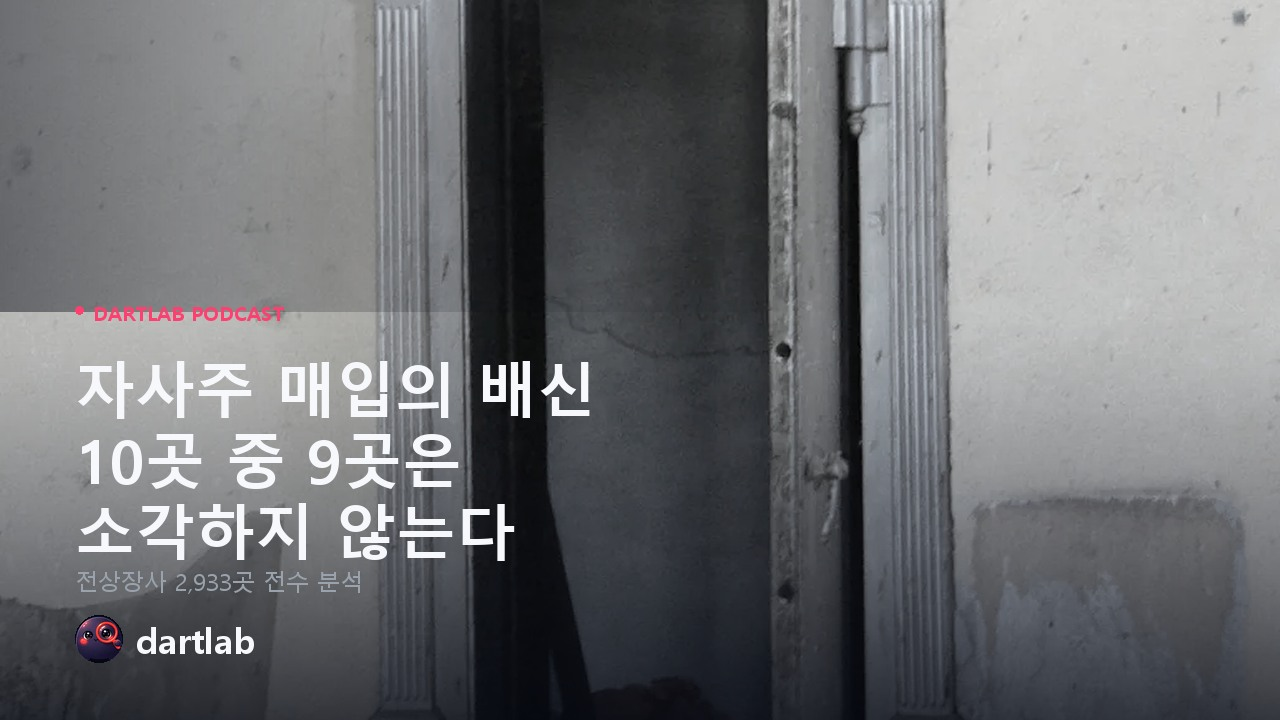
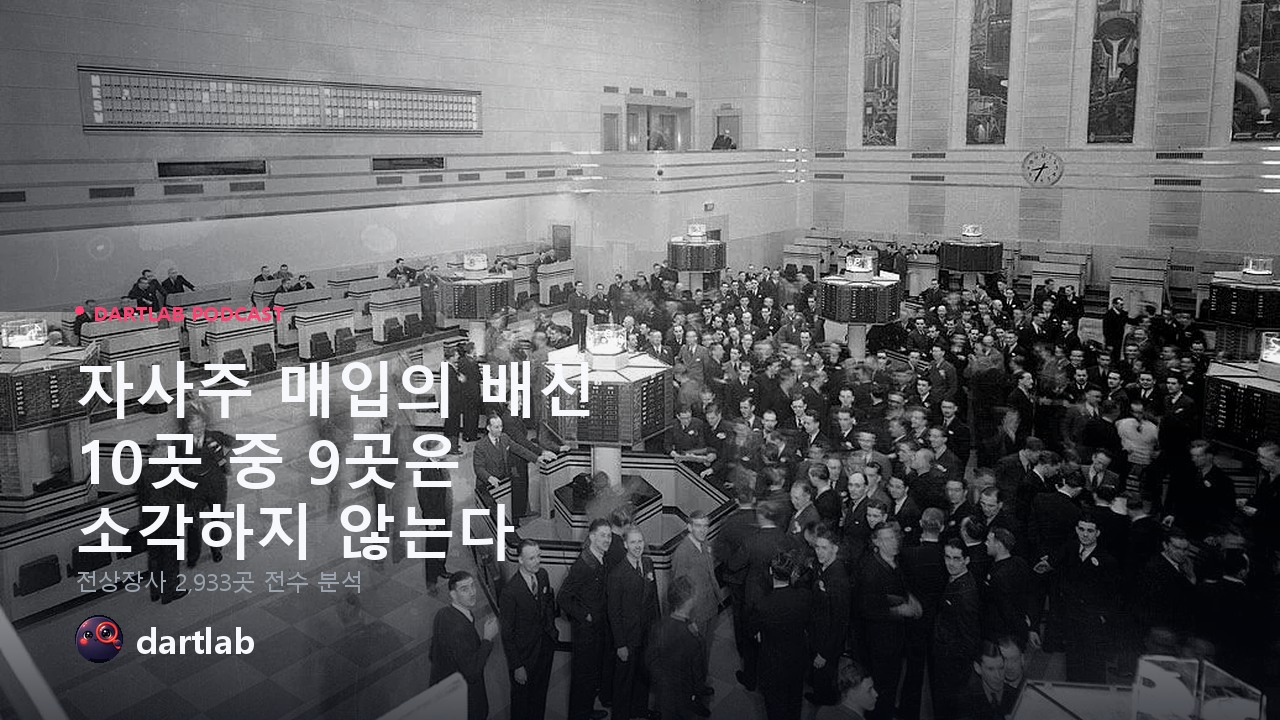
개선: 팟캐스트 P05 썸네일 배경 교체 (금고문 -> 증권거래소 객장, PD) + R2 재발행
New Toronto Stock Exchange trading floor (Alexandra Studios, Wikimedia Commons, Public Domain). 주식시장 테마, 1280x720 재렌더 후 R2 커버/썸네일 갱신.

diff --git a/blog/_podcasts/episodes/P05-economy-treasury-stock-cancellation/assets/CREDITS.md b/blog/_podcasts/episodes/P05-economy-treasury-stock-cancellation/assets/CREDITS.md
@@ -4,10 +4,10 @@
 
 | 파일 | 출처 | 라이선스 | 역할 |
 |---|---|---|---|
-| source-gray.webp | Bank of Gage (Oklahoma) vault door 1 / Ammodramus (Wikimedia Commons) | CC0 | 재사용 원본 배경 (은행 금고문, "회사 금고에 쌓인 자사주" 메타포) |
-| static-video.jpg | source-gray 파생 (렌더) | CC0 파생 | 1280x720 16:9 (팟빵·유튜브 썸네일·정적영상) |
-| cover.jpg | source-gray 파생 (렌더) | CC0 파생 | 3000x3000 정사각 RSS 커버 |
+| source-gray.webp | New Toronto Stock Exchange trading floor / Alexandra Studios (Wikimedia Commons) | Public Domain | 재사용 원본 배경 (증권거래소 객장, 주식시장 테마) |
+| static-video.jpg | source-gray 파생 (렌더) | PD 파생 | 1280x720 16:9 (팟빵·유튜브 썸네일·정적영상) |
+| cover.jpg | source-gray 파생 (렌더) | PD 파생 | 3000x3000 정사각 RSS 커버 |
 
-원본 URL: https://commons.wikimedia.org/wiki/File:Bank_of_Gage_(Oklahoma)_vault_door_1.JPG
+원본 URL: https://commons.wikimedia.org/wiki/File:New_Toronto_Stock_Exchange_trading_floor.jpg
 
 렌더: `uv run python -X utf8 blog/_podcasts/_lib/render_episode_image.py --episode P05-economy-treasury-stock-cancellation`
